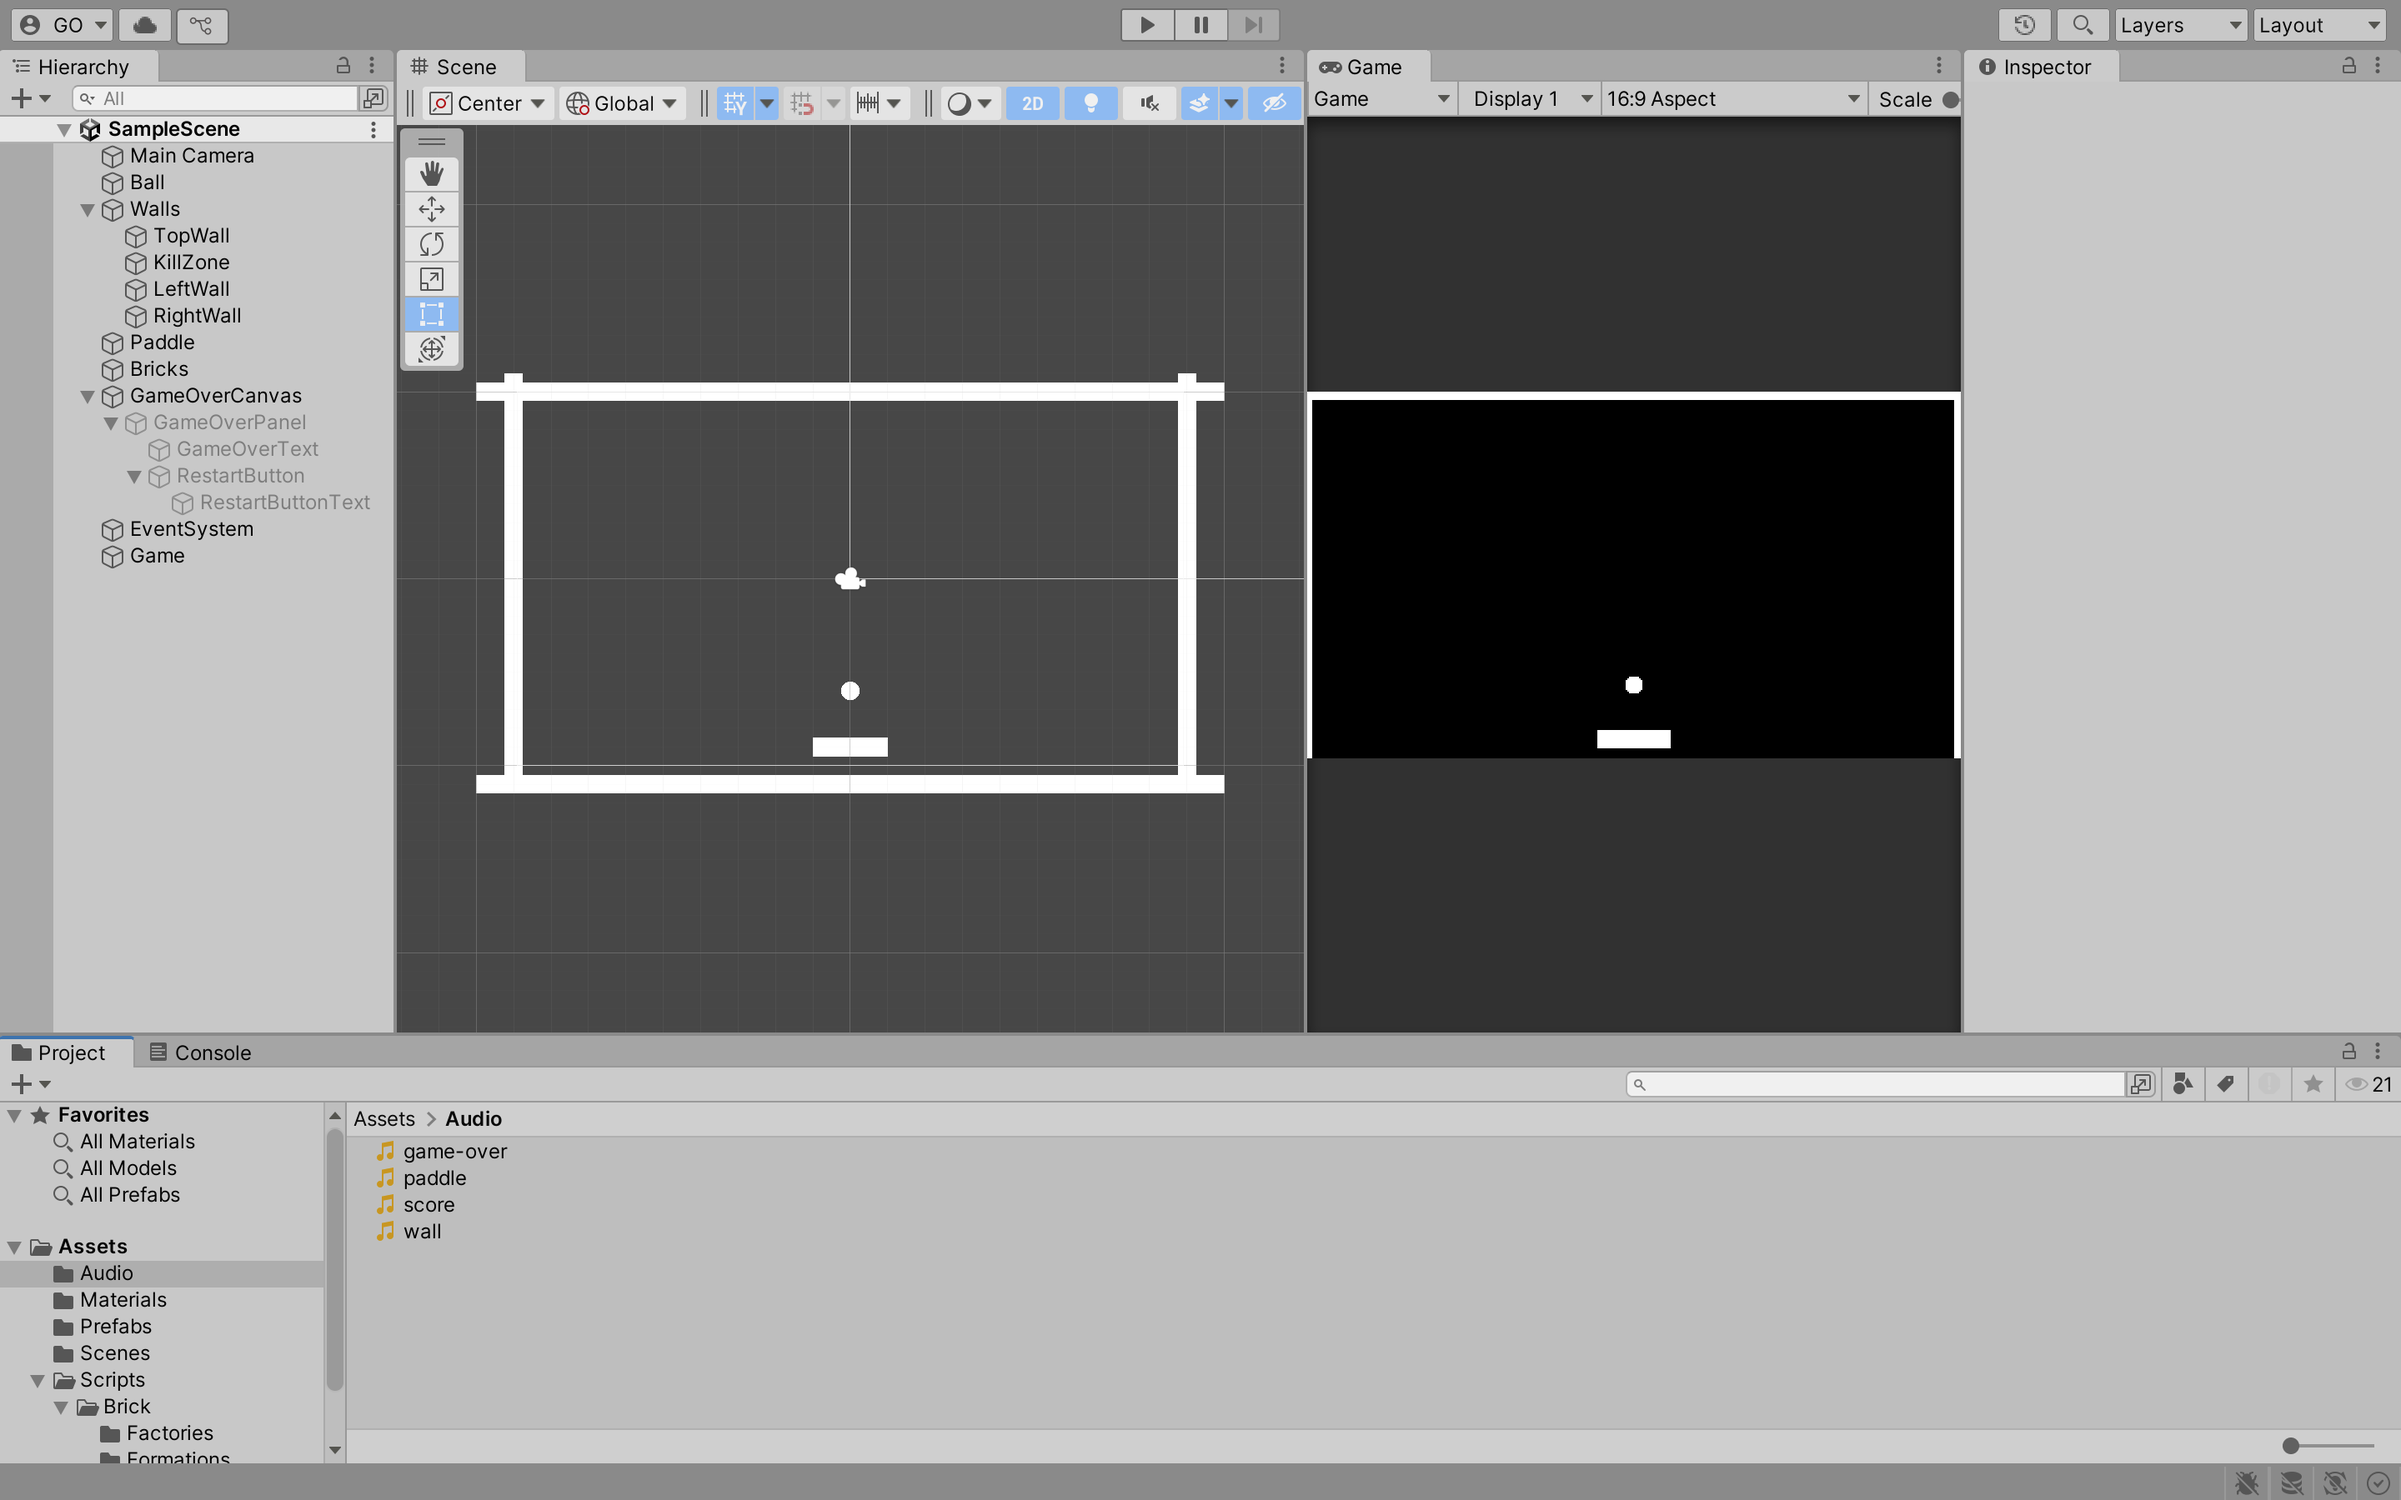
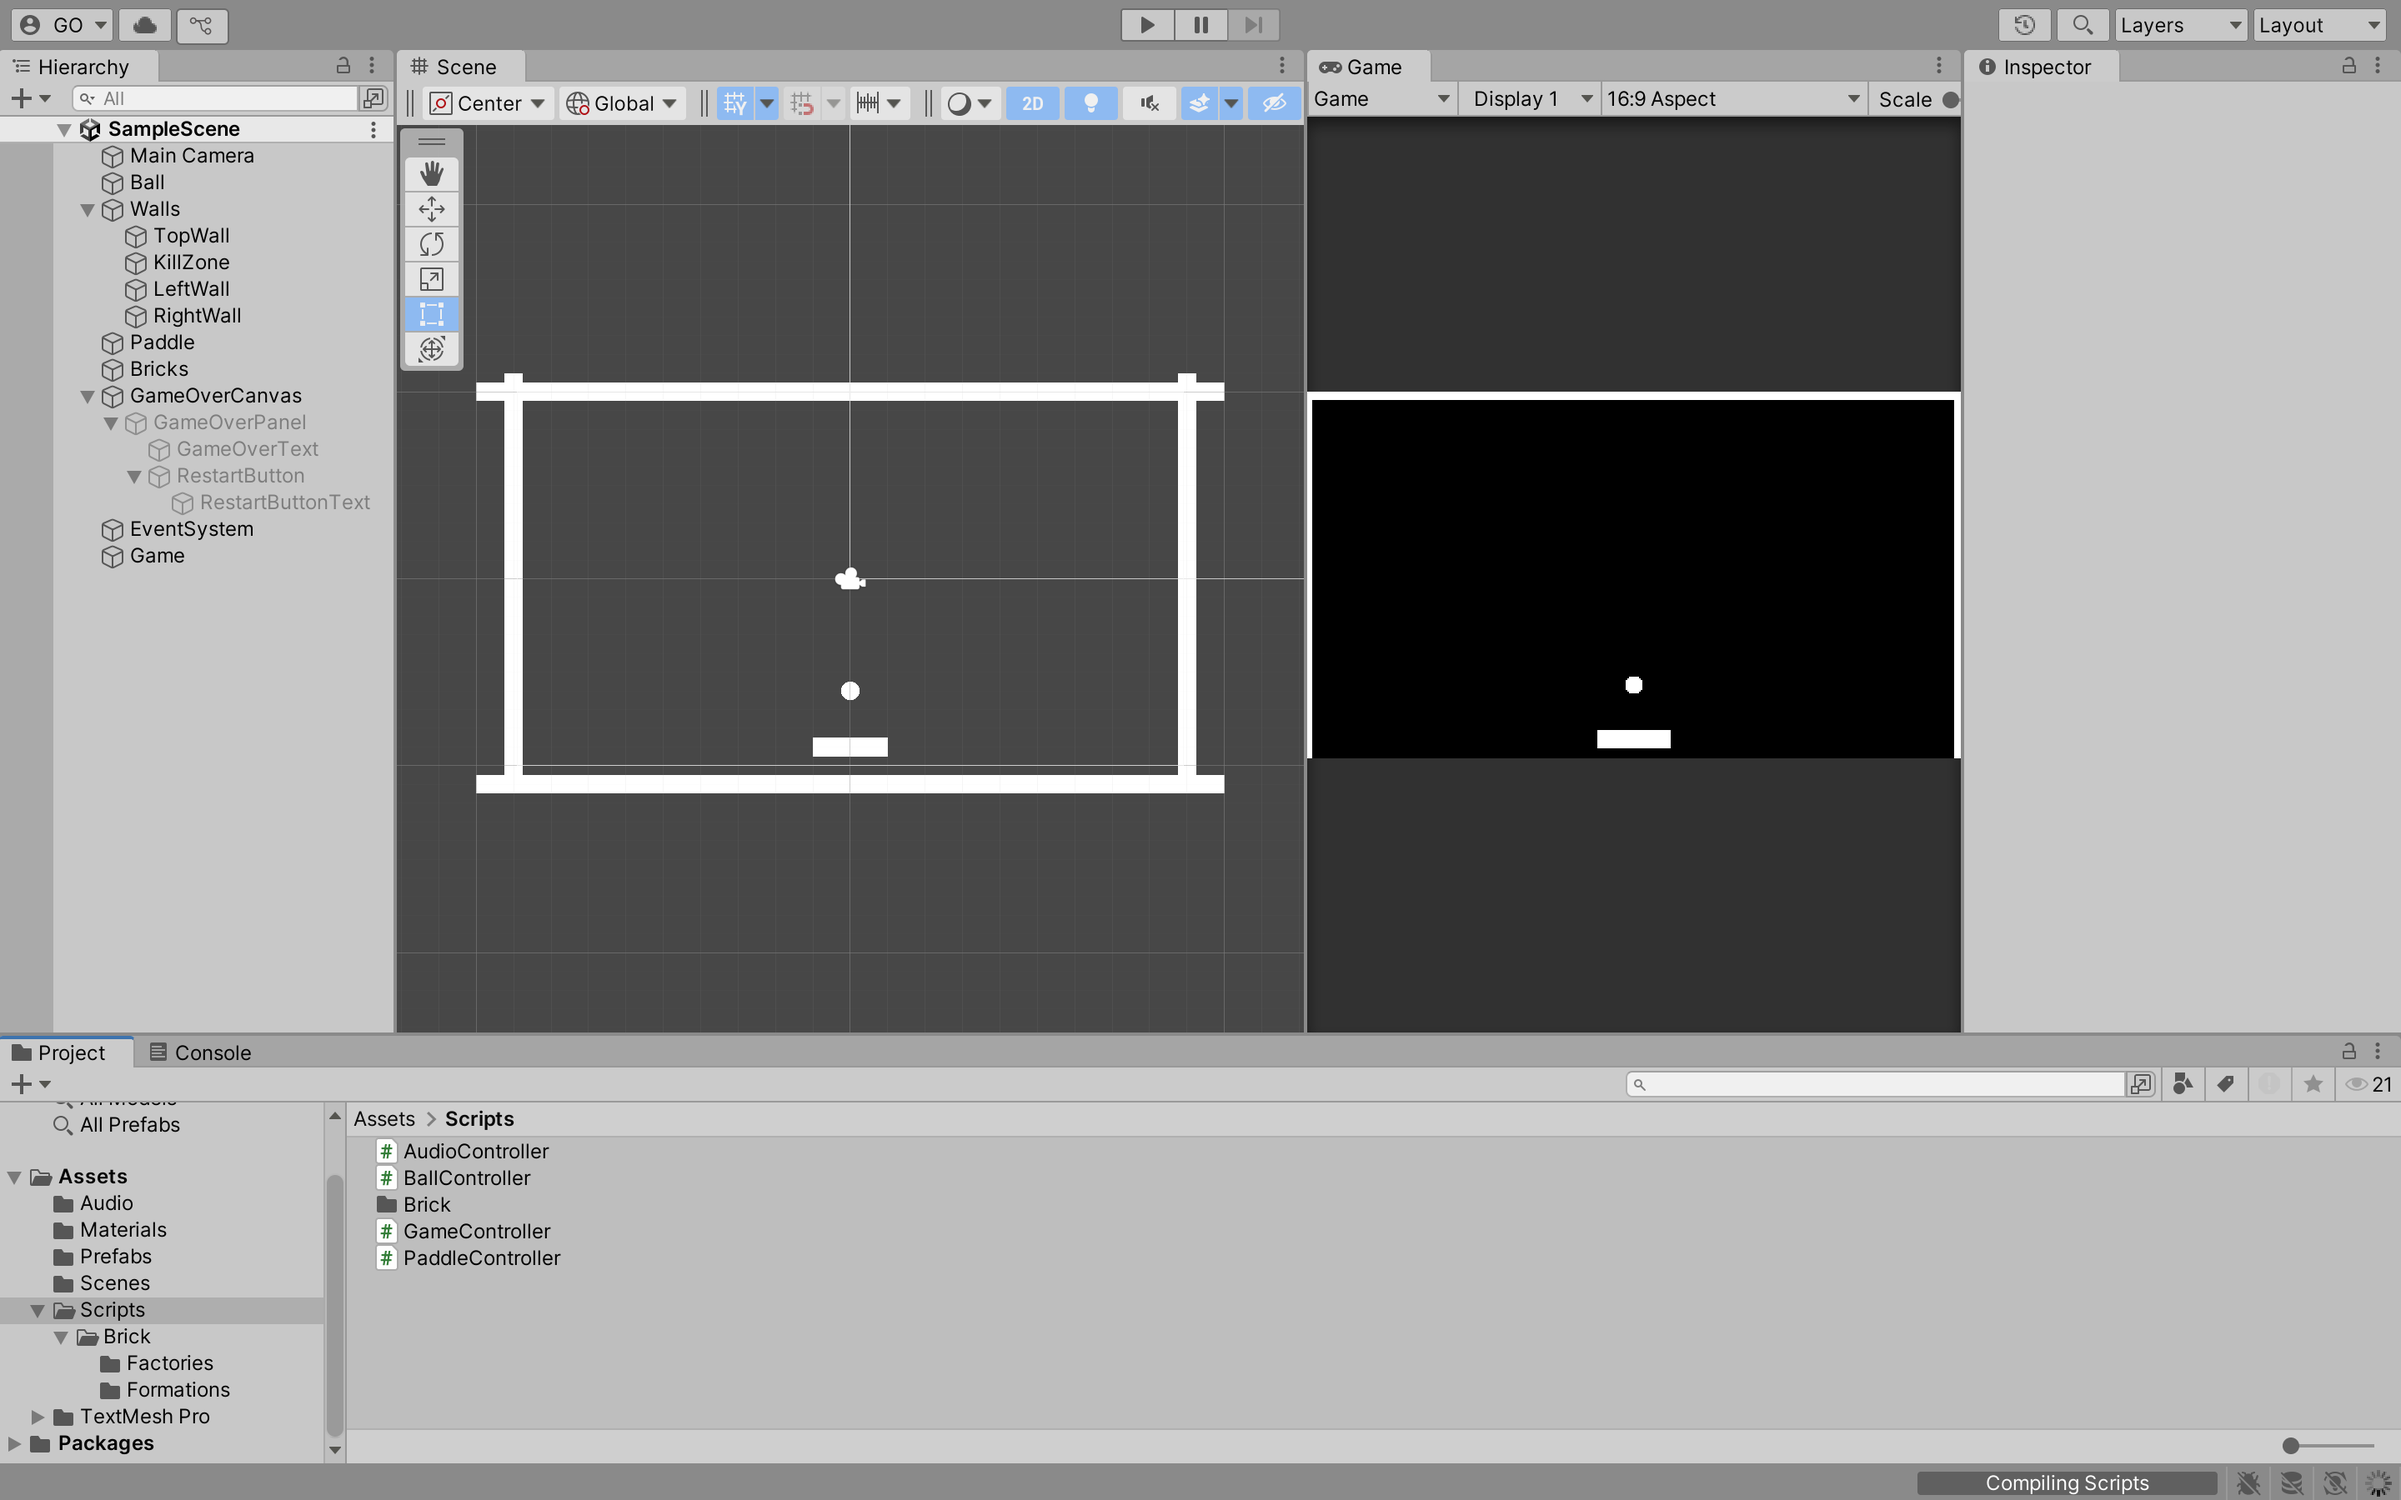
update

diff --git a/lecture-notes/04-instantiate-design-patterns-audio.md b/lecture-notes/04-instantiate-design-patterns-audio.md
@@ -529,9 +529,9 @@ Learning to use AI tools is an important skill. While AI tools are powerful, you
 
 ---
 
-### Submission
+### Task 1
 
-Create a new pull request and assign **grayson-orr** to review your practical submission. Please do not merge your own pull request.
+When the ball collides with the paddle, bricks and kill zone, play the appropriate sound.
 
 ---
 
